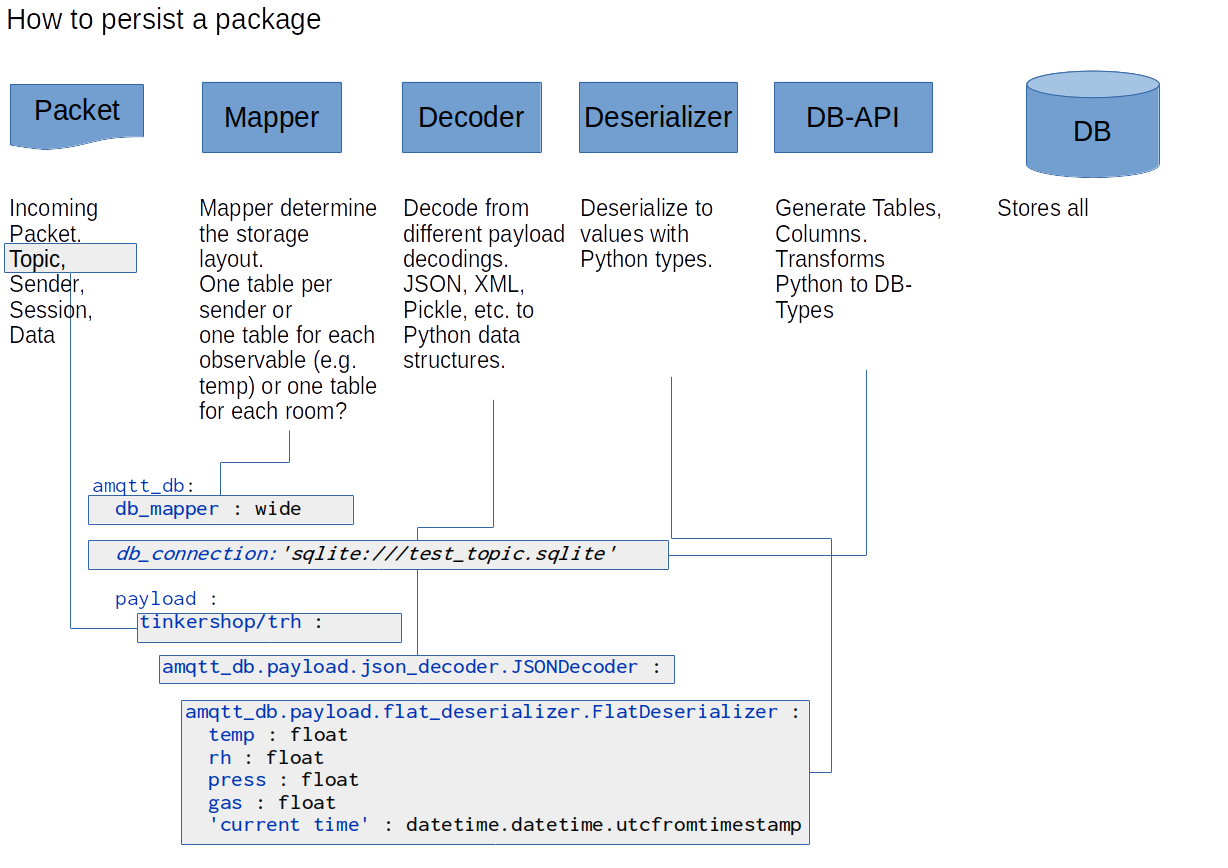
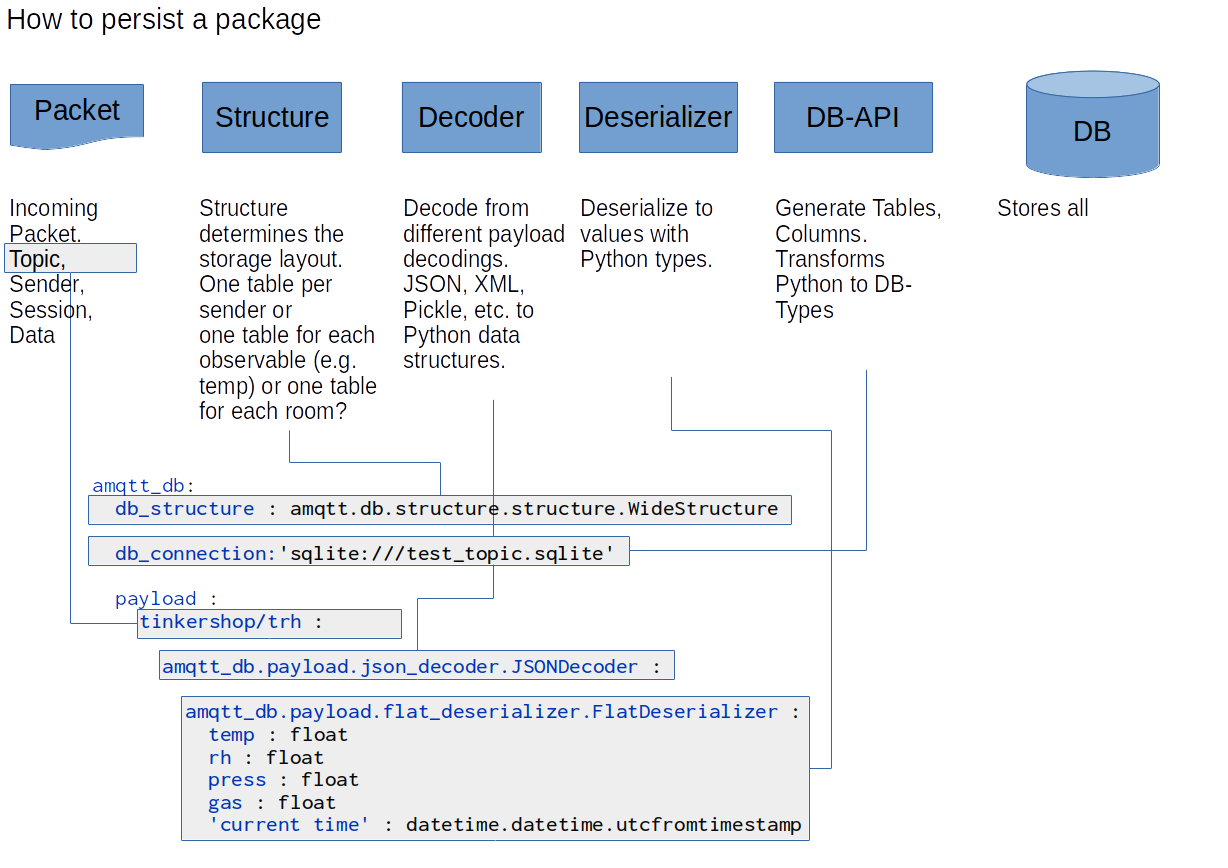
Reflect code changes in the documentation

diff --git a/doc/index.rst b/doc/index.rst
@@ -26,23 +26,24 @@ There are many things I hate on frameworks.
 
 but also some things I really like.
  - Batteries included
- - A base ground to settle on
+ - A base to grow from
  - DRY concepts
 
-Therefore I tried to come up with more of the later and less of the former.
+Therefore I come up with more of the later and less of the former.
 
 amqtt_db architecture
 =====================
 
 
-    .. figure:: ./static/data_flow.png
+    .. figure:: ./_static/data_flow.png
         :width: 800px
         :align: center
         :alt: alternate text
         :figclass: align-center
 
 
-The amqtt_db framework is configured completely via the mqtt yaml config file.
+The amqtt_db framework is configured completely via the amqtt config.yaml file.
+
 Four processing layers transform your MQTT data into your favourite structure in the BD:
 
  - The first layer is the DB Structure (One per plugin).

diff --git a/doc/apidoc/amqtt_db.base.rst b/doc/apidoc/amqtt_db.base.rst
@@ -10,8 +10,8 @@ Submodules
    amqtt_db.base.base_db
    amqtt_db.base.base_decoder
    amqtt_db.base.base_deserializer
-   amqtt_db.base.base_mapper
    amqtt_db.base.base_plugin
+   amqtt_db.base.base_structure
    amqtt_db.base.base_topic
    amqtt_db.base.constants
    amqtt_db.base.delegator

diff --git a/doc/apidoc/amqtt_db.rst b/doc/apidoc/amqtt_db.rst
@@ -9,8 +9,8 @@ Subpackages
 
    amqtt_db.base
    amqtt_db.db
-   amqtt_db.mapper
    amqtt_db.payload
+   amqtt_db.structure
    amqtt_db.tests
 
 Submodules
